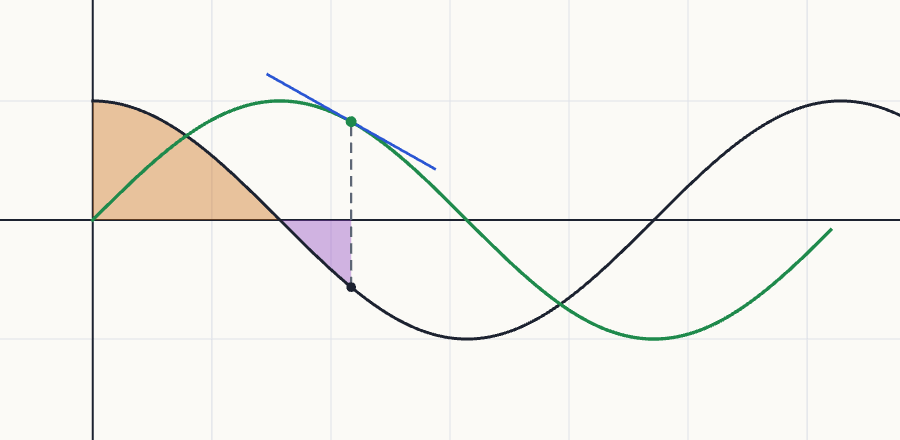
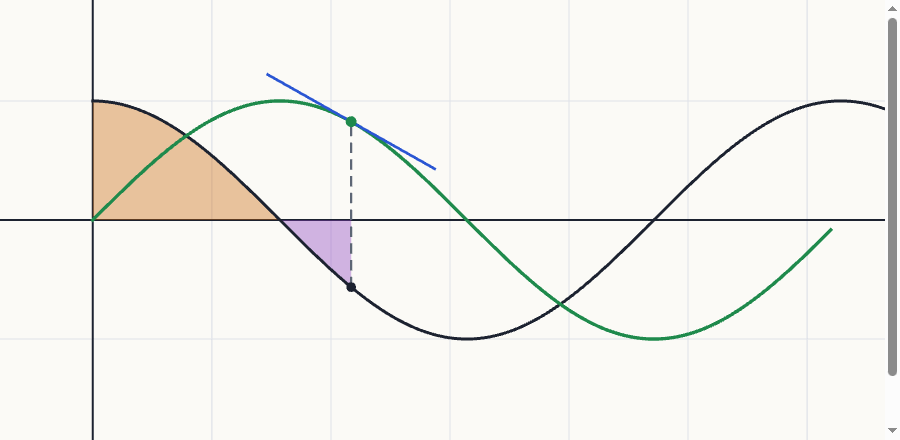
Interactivo 6.2: leyenda de colores (ctx.leyenda en interactivos.js)
Claude-Session: https://claude.ai/code/session_01M7UdAgEeQRHcArVqwGasqt

Changed region(s): [[0.9644, 0.0295, 1.0, 0.8568]]

diff --git a/assets/interactivos.css b/assets/interactivos.css
@@ -16,11 +16,17 @@ figure.interactivo .int-ctl label{display:flex;flex-direction:column;gap:2px}
 figure.interactivo .int-ctl output{font-weight:700;color:var(--acc)}
 figure.interactivo .int-ro{padding:0 14px 8px;display:grid;grid-template-columns:repeat(auto-fit,minmax(200px,1fr));gap:2px 18px}
 figure.interactivo .int-ro b{color:var(--acc)}
+figure.interactivo .int-leg{display:flex;flex-wrap:wrap;gap:4px 16px;padding:2px 14px 10px;font-size:.85rem;color:var(--fg)}
+figure.interactivo .int-leg span{display:inline-flex;align-items:center;gap:6px}
+figure.interactivo .int-sw{display:inline-block;flex:none;background:var(--c)}
+figure.interactivo .int-sw.linea{width:22px;height:3px;border-radius:2px}
+figure.interactivo .int-sw.area{width:16px;height:12px;border-radius:2px;opacity:.6}
+figure.interactivo .int-sw.punto{width:10px;height:10px;border-radius:50%}
 figure.interactivo figcaption{padding:6px 14px 10px;border-top:1px solid var(--bd);color:var(--mut)}
 figure.interactivo .int-static{display:none;width:100%;height:auto}
 figure.interactivo.int-sinwebgl .int-static{display:block}
 @media print{
   figure.interactivo{break-inside:avoid;border:1px solid #000}
-  figure.interactivo .int-stage,figure.interactivo .int-ctl,figure.interactivo .int-ro{display:none}
+  figure.interactivo .int-stage,figure.interactivo .int-ctl,figure.interactivo .int-ro,figure.interactivo .int-leg{display:none}
   figure.interactivo .int-static{display:block}
 }

diff --git a/assets/interactivos.js b/assets/interactivos.js
@@ -248,6 +248,15 @@
           if (etiqueta) d.appendChild(document.createTextNode(etiqueta + ': ')); d.appendChild(b); ro.appendChild(d);
           return function (t) { b.textContent = t; };
         },
+        /* Leyenda bajo el lienzo: leyenda([['var(--L)', 'F(x)', 'linea'|'area'|'punto'], …]); los colores son variables CSS, siguen el tema. */
+        leyenda: function (items) {
+          var d = document.createElement('div'); d.className = 'int-leg'; d.setAttribute('aria-label', 'Leyenda');
+          items.forEach(function (it) {
+            var e = document.createElement('span'), m = document.createElement('i');
+            m.className = 'int-sw ' + (it[2] || 'linea'); m.style.setProperty('--c', it[0]); e.appendChild(m); e.appendChild(document.createTextNode(it[1])); d.appendChild(e);
+          });
+          (ro || ctl || stage).after(d); return d;
+        },
         alCambiarTema: function (cb) { temaCbs.push(cb); cb(paleta()); }
       };
       if (dos) activarZoom();

diff --git a/assets/escenas/acumulada.js b/assets/escenas/acumulada.js
@@ -66,6 +66,8 @@ Interactivos.registrar('acumulada', function (c) {
   }
   sx = c.slider('x (extremo superior)', 0, 1, 0.01, x, function (v) { x = v; if (tg) calc(); });
   c.selector('Función ', G.map(function (g) { return g.n; }), 0, function (i) { k = i; nuevo(); calc(); });
+  c.leyenda([['var(--fg)', 'f(t): la función', 'linea'], ['var(--L)', 'F(x): área acumulada', 'linea'], ['var(--acc)', 'tangente a F en x (pendiente f(x))', 'linea'],
+    ['var(--S)', 'área sobre el eje (suma)', 'area'], ['var(--E)', 'área bajo el eje (resta)', 'area'], ['var(--fg)', 'punto de f en x', 'punto'], ['var(--L)', 'punto de F en x', 'punto']]);
   c.alCambiarTema(function (p) {
     P = p; c.renderer.setClearColor(p.bg);
     if (!ejes) return;
